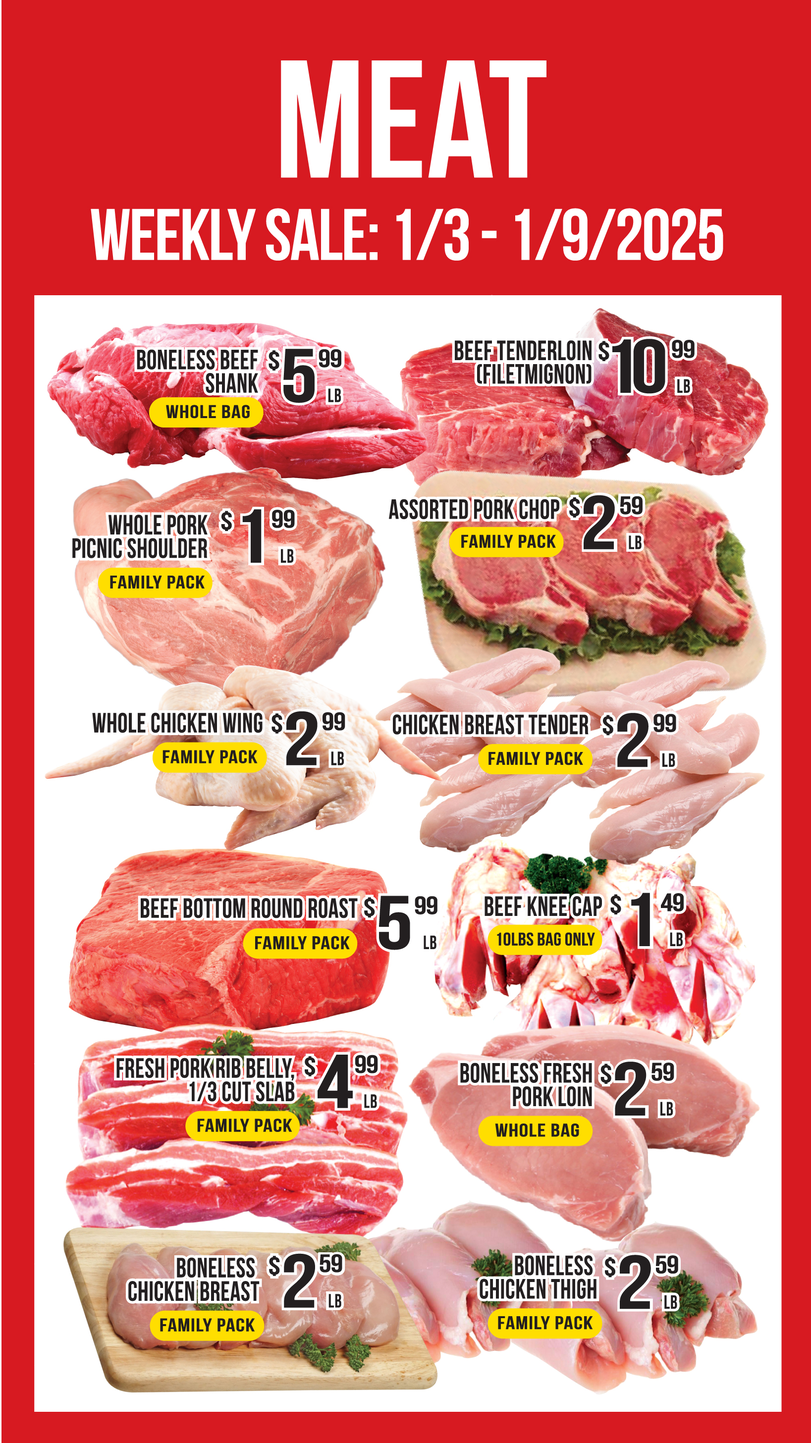
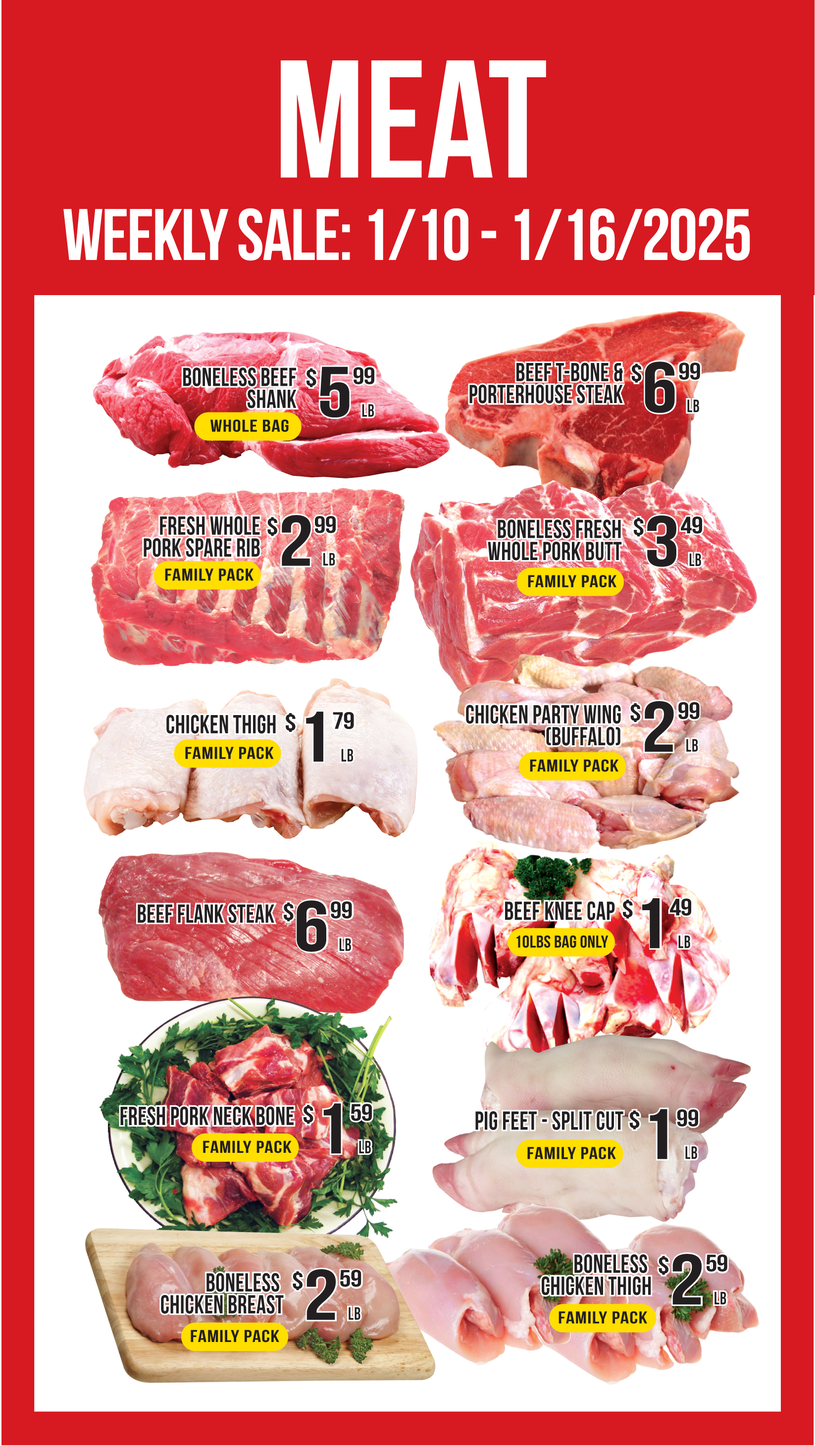
weekly

diff --git a/index.html b/index.html
@@ -64,16 +64,16 @@
           <img src="./public/assets/sp.jpg" class="d-block w-100 img-fluid" alt="...">
         </div> -->
         <div class="carousel-item center-carousel active">
-          <img src="./public/assets/weekly/meat.jpg?v=0103" class="img-fluid" alt="...">
+          <img src="./public/assets/weekly/meat.jpg?v=0110" class="img-fluid" alt="...">
         </div>
         <div class="carousel-item center-carousel">
-          <img src="./public/assets/weekly/veg.jpg?v=0103" class="img-fluid" alt="...">
+          <img src="./public/assets/weekly/produce.jpg?v=0110" class="img-fluid" alt="...">
         </div>
         <div class="carousel-item center-carousel">
-          <img src="./public/assets/weekly/fish.jpg?v=0103" class="img-fluid" alt="...">
+          <img src="./public/assets/weekly/seafood.jpg?v=0110" class="img-fluid" alt="...">
         </div>
         <div class="carousel-item center-carousel">
-          <img src="./public/assets/weekly/grocery.jpg?v=0103" class="img-fluid" alt="...">
+          <img src="./public/assets/weekly/grocery.jpg?v=0110" class="img-fluid" alt="...">
         </div>
         <!-- <div class="carousel-item center-carousel">
           <img src="./public/assets/sale/grocery2.jpg?v=070623" class="img-fluid" alt="...">

diff --git a/deals.html b/deals.html
@@ -50,15 +50,15 @@
     <div class="row deal">
 
       <h2>English</h2>
-      <img class="img-fluid" src="./public/assets/weekly/english.jpg?v=0103">
+      <img class="img-fluid" src="./public/assets/weekly/english.jpg?v=0110">
 
       <br><br>
       <h2>Spanish</h2>
-      <img class="img-fluid" src="./public/assets/weekly/spanish.jpg?v=0103">
+      <img class="img-fluid" src="./public/assets/weekly/spanish.jpg?v=0110">
 
       <br>
       <h2>Korean</h2>
-      <img class="img-fluid" src="./public/assets/weekly/korean.jpg?v=0103">
+      <img class="img-fluid" src="./public/assets/weekly/korean.jpg?v=0110">
       <br>
       <br>
     </div>
